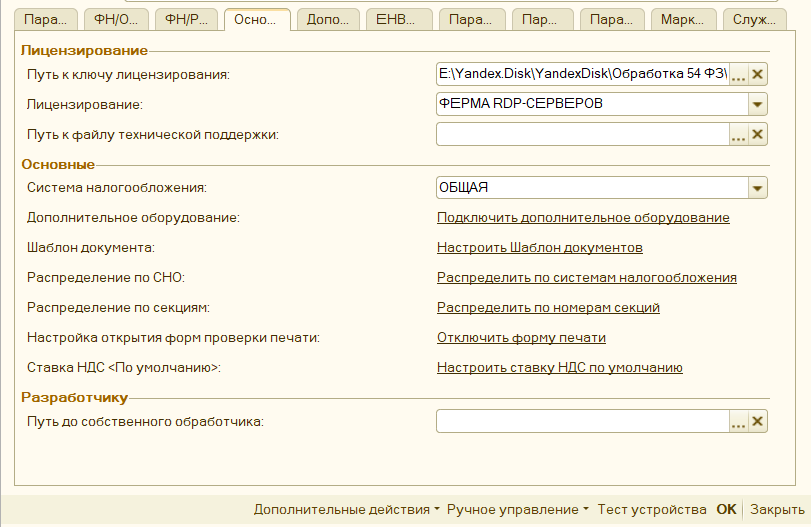
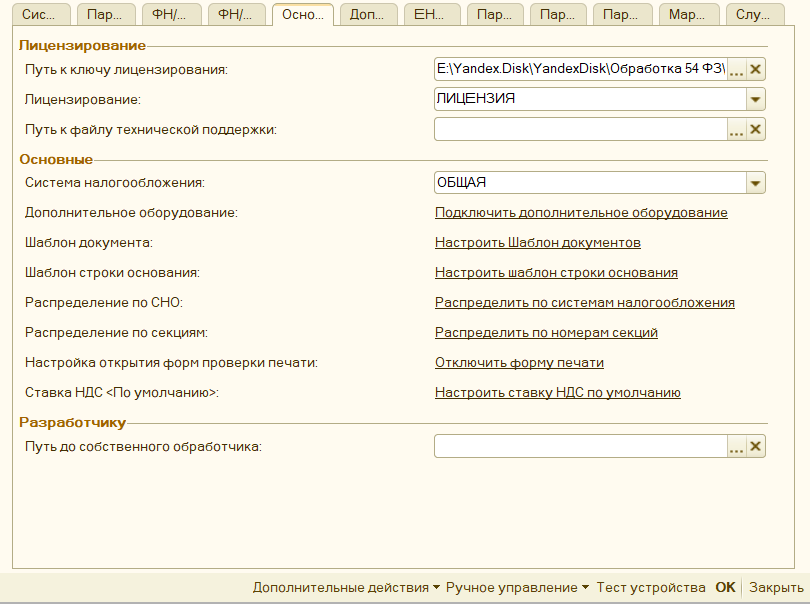
Добавил новые параметры в описание

Changed region(s): [[0.0, 0.0, 1.0, 1.0], [0.5247, 0.3947, 0.9568, 0.759], [0.8951, 0.7894, 0.9568, 0.8197]]

diff --git a/parameters_description.md b/parameters_description.md
@@ -3,7 +3,21 @@
 [в начало](README.md#навигация)
 
 >**Важно**: при изменении параметров обработки, необходимо перезапускать 1С, чтобы настройки обновились.
-> Параметры обработки, до закладки **Основные параметры** являются настройками компоненты оборудования, и меняются в зависимости от выбранного оборудования и версии драйверов к ним, обработка на них не может повлиять, и настройки для них необходимо смотреть на сайте у производителя выбранного оборудования
+Параметры обработки, до закладки **Основные параметры** являются настройками компоненты оборудования, и меняются в зависимости от выбранного оборудования и версии драйверов к ним, обработка на них не может повлиять, и настройки для них необходимо смотреть на сайте у производителя выбранного оборудования
+
+## Системные параметры ##
+
+![Системные параметры](media/system_settings.png)
+
+**Ревизия** - версия формата работы, который поддерживает компонента оборудования, а значит и сама программа. Подробнее об этом на сайте [ИТС](https://its.1c.ru/db/metod8dev/content/4829/hdoc). Сейчас наиболее актуальной является ревизия _3003_, однако не все компоненты и конфигурации ее поддерживают.
+
+**Версия обработки** - выводит текущую версию, используемой программы
+
+**Версия драйвера** - выводит информации о версии установленного драйвера оборудования, либо версии используемой компоненты.
+
+**Наименование** - наименование компоненты оборудования.
+
+**Описание** - более подробная информация о компоненте оборудования. Например, для оборудования ВикиПринт в этом поле отображается историяи изменений компоненты оборудования.
 
 ## Основные параметры ##
 
@@ -22,6 +36,8 @@
 **«Дополнительное оборудование»** - позволяет указать параметры подключения дополнительных фискальных регистраторов к данной обработке (см. [«Подключение дополнительного оборудования»).](connecting.md#подключение-дополнительного-оборудования))
 
 **«Шаблон документа»** - позволяет напечатать внутри фискального чека собственный текст. Для каждого типа документа задается собственный шаблон. Можно задать шаблон для строки номенклатуры (см. [«Шаблон документа печати»](template_document.md#шаблон-документа-печати)).
+
+**«Шаблон строки основания** - позволяет заменить строку, которая формируется вместо фискальной при Авансовых платежах, на собственную. (см. [«Шаблон строки основания»](template_document.md#шаблон-строки-основания)).
 
 **«Распределение по СНО»** - позволяет задать условия использования разных систем налогообложения в одном чеке (см. [«Распределение СНО»](mechanism_distribution.md#распределение-по-системам-налогообложения)).
 
@@ -130,10 +146,13 @@
 
 **«Отключить заполнение с учетом признаков способа расчета»** - отключает алгоритм заполнения с учетом признаков способа расчета, когда признак способа расчета "Аванс" заменяется на единую строку платежа, когда позиции по признаку способа расчета "Предоплата" учитываются не как "Товар", а как "Платеж"
 
-**«Отключить типовой механизм работы со сканерами»** - отключает механизм работы с торговым оборудованием, когда сканер штрихкодов уже подключен к 1С через типовой функционал, такой механизм есть в типовых конфигурациях Управление торговлей 10.3, Управление производственным предприятием 1.3, и т.д.
+**«Отключить типовой механизм работы со сканерами»** - отключает механизм работы с торговым оборудованием, когда сканер штрихкодов уже подключен к 1С через типовой функционал, такой механизм есть в конфигурациях Управление торговлей 10.3, Управление производственным предприятием 1.3, и т.д. При этом будет использован функционал, которые заложен в самой обработке.
 
-**«Печатать «ОСНОВАНИЕ» в ПКО и РКО»** - позволяет вначале документа напечатать текстовую строку «Основания». Например, **«Контрагент такой-то Основание документа такое-то».** Строка основания будет напечатана, если в тексте нет фискальных строк с тем же самым текстом.
-**«Источником ставки НДС в чеке будет»** - данный параметр определяет какая ставка НДС будет проставляться в кассовые документы: по документу основания, либо по текущему документу. Возможны варианты: «Кассовый документ» или «Документ основания»
+**«Записывать информацию по маркировки в лог»** - после сканирования маркировки дополнительно сохраняет содержимое марки в файл лога, если [логирование](#служебное) включено.
+
+**«Печатать «ОСНОВАНИЕ» в ПКО и РКО»** - позволяет вначале документа напечатать текстовую строку «Основания». Например, **«Контрагент такой-то Основание документа такое-то».** Строка основания будет напечатана, если в тексте нет фискальных строк с тем же самым текстом. Есть возможность задать [собственный шаблон](template_document.md#шаблон-строки-основания) формирования такой строки
+
+**«Источником ставки НДС в чеке будет»** - данный параметр определяет какая ставка НДС будет проставляться в кассовые документы: по документу основания, либо по текущему документу. Возможны варианты: «Кассовый документ» или «Документ основания». При этом если будет выбран параметр "Кассовый документ", то при формировании чека программа фильтрует строки чека с учетом именно ставки кассового документа, товары с другой ставкой в чек не попадут.
 
 **«Игнорировать данные Фронт-кассира»** - используется для конфигураций Рарус, если включен, то при печати через форму «фронт кассира» или «фронт менеджера», несмотря на указанные в ней товары, данные для печати будут взяты прямо из документа основания, однако суммы оплаты будут все равно взяты и фронт кассира.
 
@@ -248,3 +267,9 @@
 **«Дополнительные покупки»** - открывает окно, где можно приобрести дополнительные лицензии, или продлить тех поддержку.
 
 **«Написать разработчику»** - открывает форму, где можно отправить [письмо разработчику](licensing.md#написать-разработчику) (не используя почтовую рассылку), сообщить об ошибке, либо высказать пожелания о доработке.
+
+## О программе ##
+
+![О программе](media/about.png)
+
+Выводит на экран информацию о текущей версии программы, ее дате выхода, и получения актуальной версии программы.

diff --git a/template_document.md b/template_document.md
@@ -49,3 +49,8 @@
 Данное окно напоминает окно редактирования шаблона, однако поле операндов нельзя редактировать, и оно заполняется автоматически: теми операндами, чтобы были в основном шаблоне, а также предопределенными реквизитами, которые содержатся в «ТаблицаЧека». В остальном же функционал идентичен.
 
 Шаблон документа описан также в видео [Как настраивать шаблон документа](https://www.youtube.com/watch?v=gqETo0CXHRM)
+
+## Шаблон строки основания
+
+Настройка шаблона строки основания практически полностью идентична настройке [Шаблон документа печати](#шаблон-документа-печати), т.е. также добавляются шаблоны для каждого документа и настраиваются отборы для выбора документа. Отличие только в форме ввода операндов, в ней нельзя добавлять новые строчки, а сам шаблон можно задать только для "строки основания"
+![Шаблон строки основания](media/template_string_basis.png)

diff --git a/marking.md b/marking.md
@@ -2,6 +2,8 @@
 
 [в начало](README.md#навигация)
 
+Использование маркировки настраивается в параметрах программы раздел ["Маркировка"](parameters_description.md#маркировка)
+
 ## Настройка типов маркировки ##
 
 ![Настройка типов маркировки](media/92af4dbe4067cf44b0f178f96edc22cf.png)
